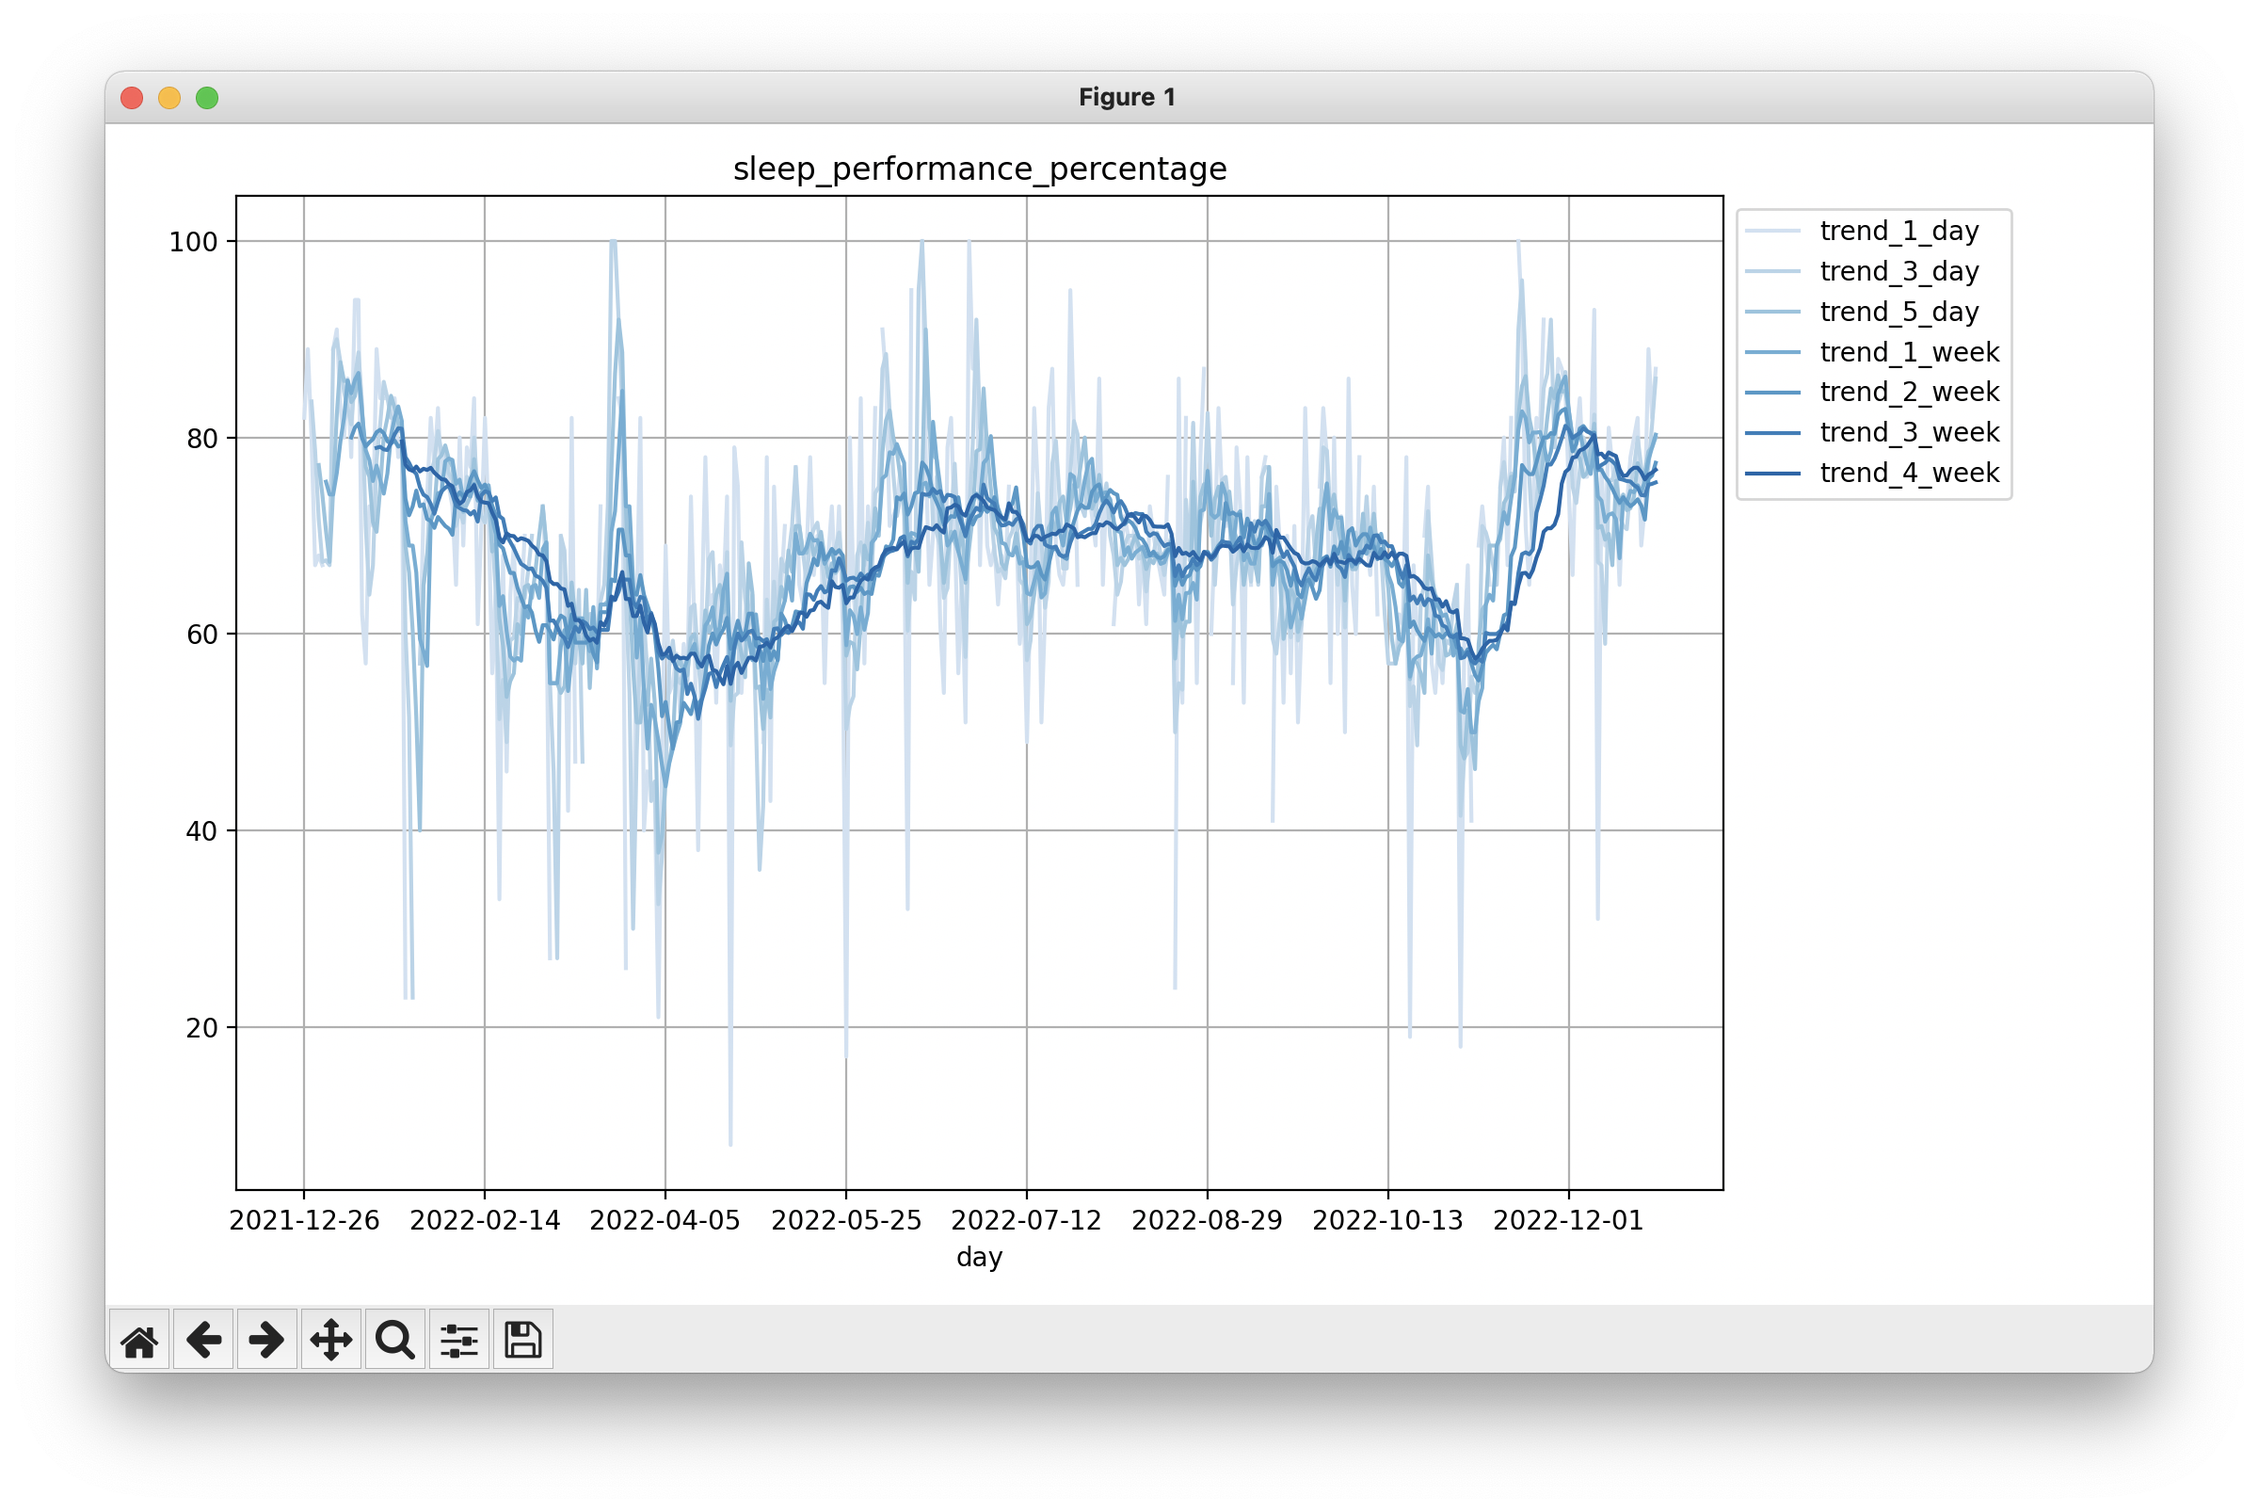
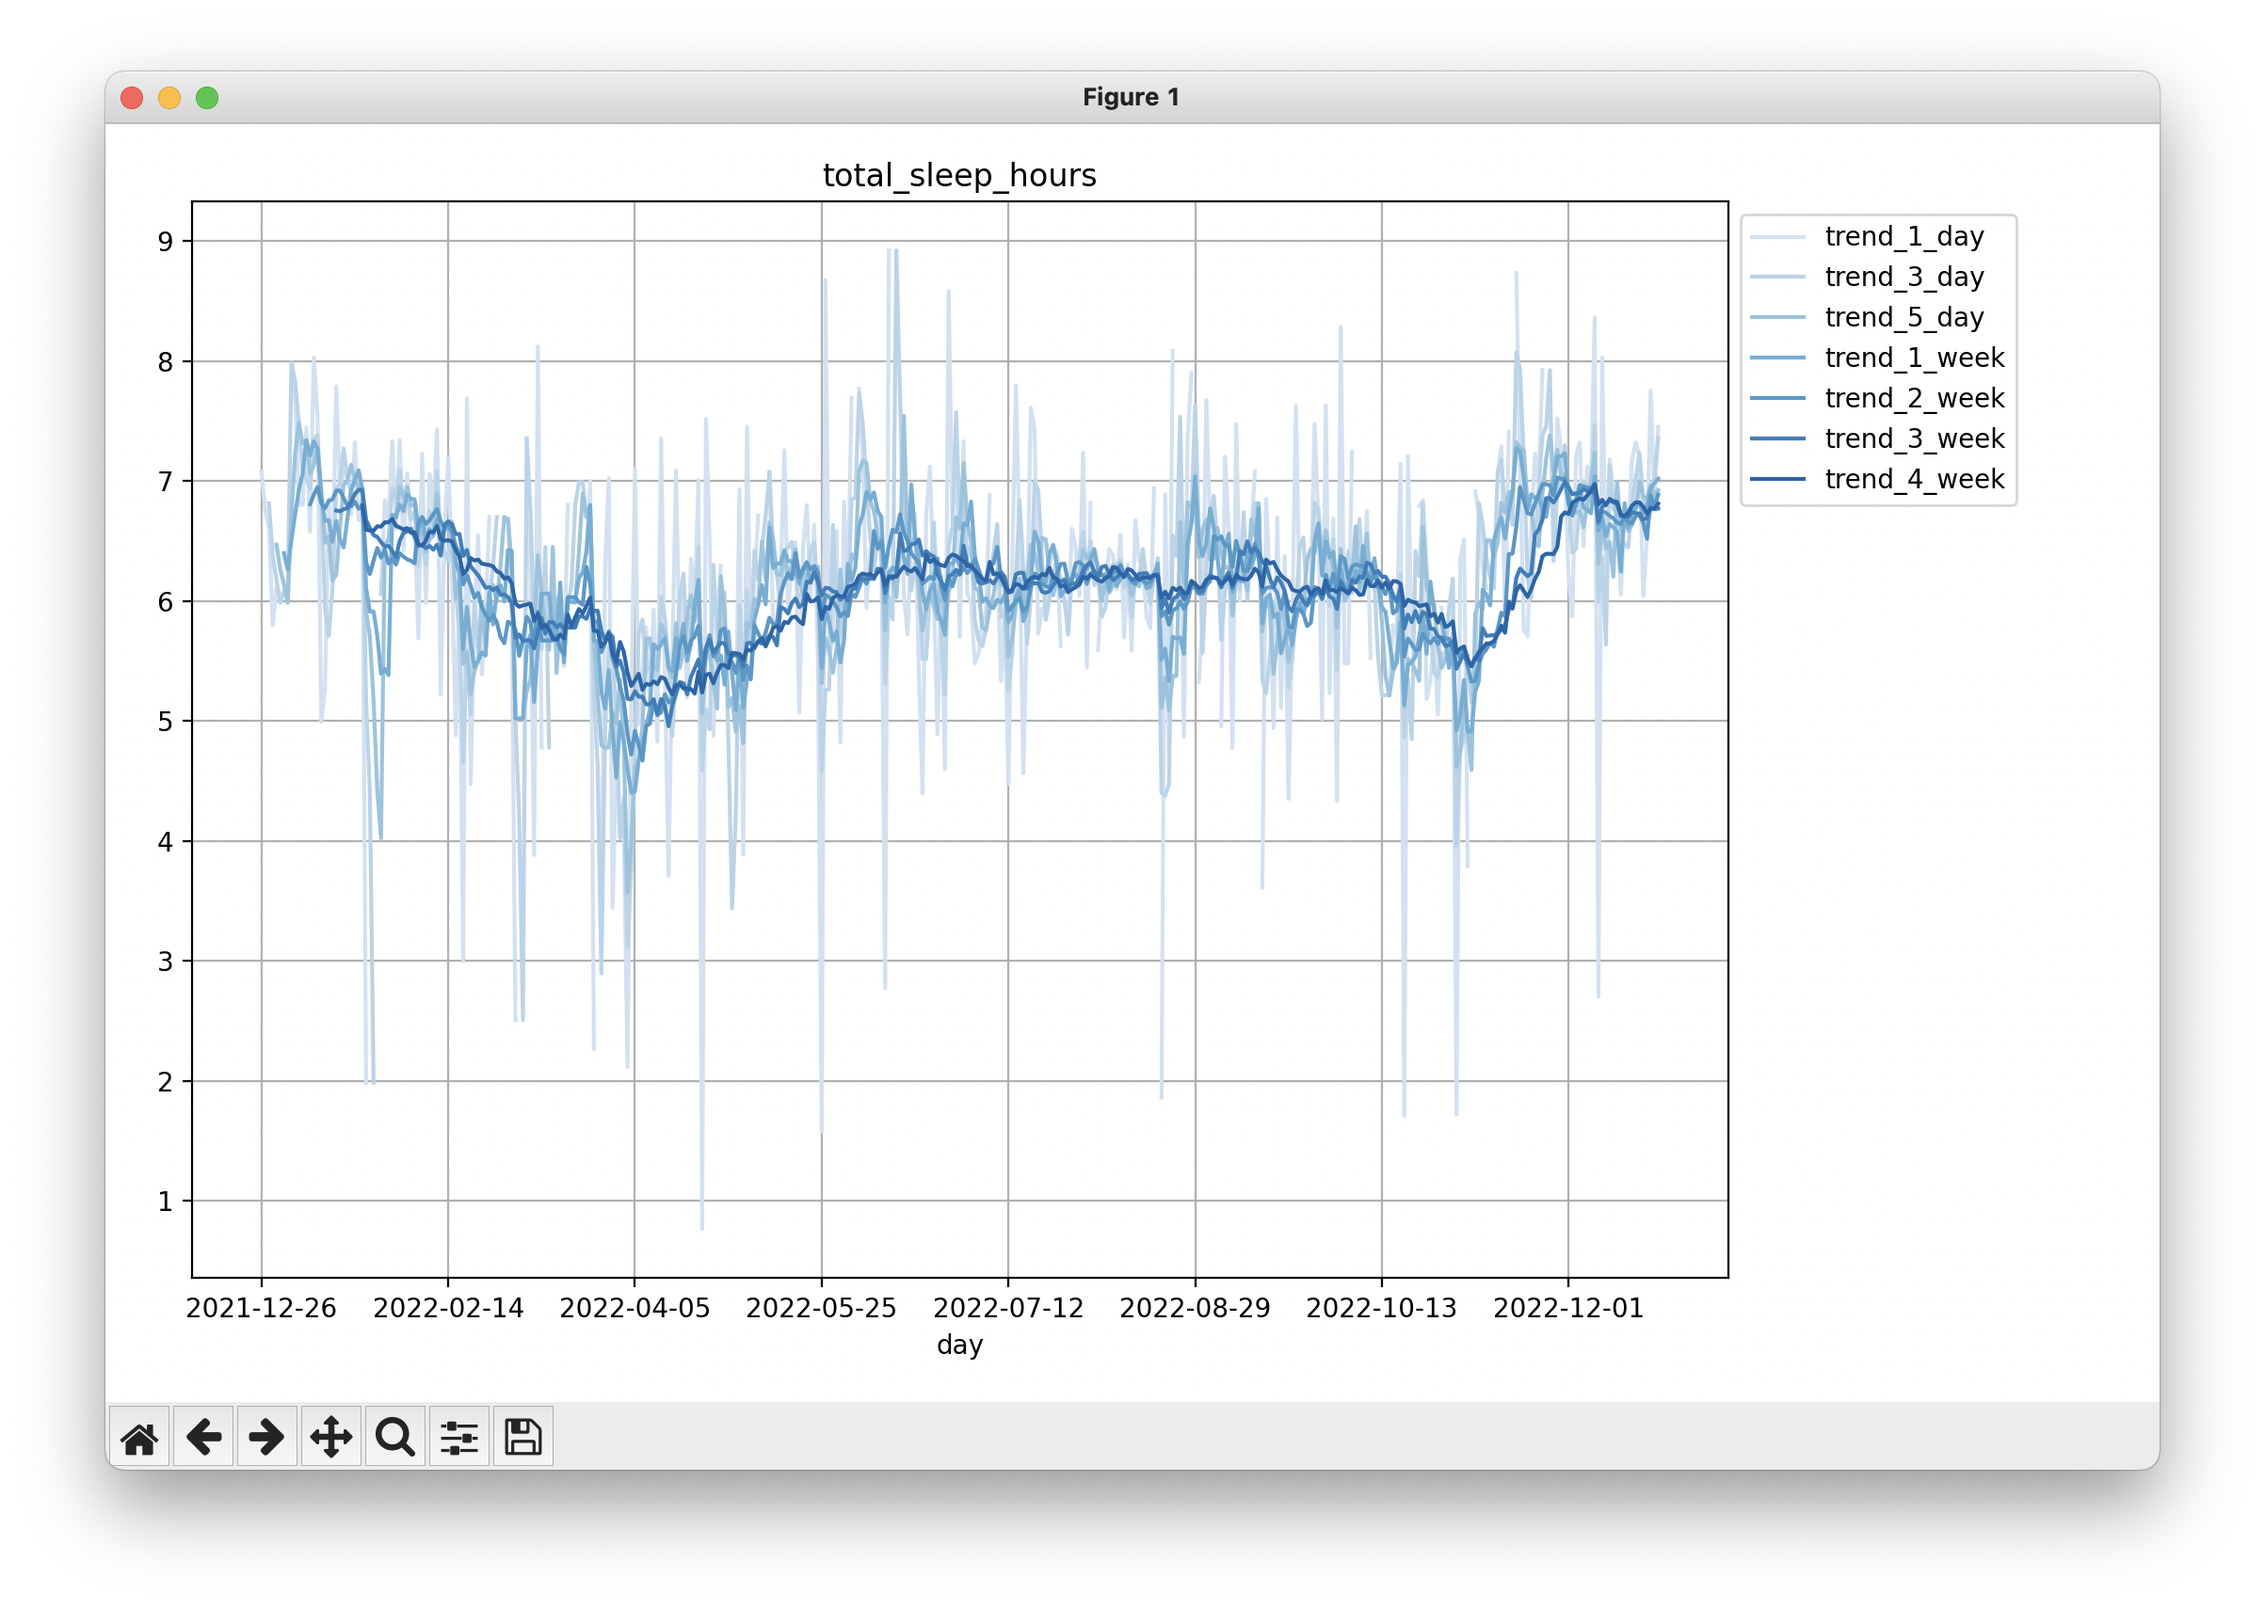
Readme updates

diff --git a/clients/whoop.py b/clients/whoop.py
@@ -113,18 +113,19 @@ class Whoop:
                 }
             if item['score']:
                 if 'stage_summary' in item['score']:
-                    record['total_in_bed_time_milli'] = item['score']['stage_summary']['total_in_bed_time_milli']
-                    record['total_awake_time_milli'] = item['score']['stage_summary']['total_awake_time_milli']
-                    record['total_no_data_time_milli'] = item['score']['stage_summary']['total_no_data_time_milli']
-                    record['total_light_sleep_time_milli'] = item['score']['stage_summary']['total_light_sleep_time_milli'] 
-                    record['total_slow_wave_sleep_time_milli'] = item['score']['stage_summary']['total_slow_wave_sleep_time_milli']
-                    record['total_rem_sleep_time_milli'] = item['score']['stage_summary']['total_rem_sleep_time_milli']
+                    record['total_in_bed_hours'] = item['score']['stage_summary']['total_in_bed_time_milli']/3600000.0
+                    record['total_awake_hours']  = item['score']['stage_summary']['total_awake_time_milli']/3600000.0
+                    record['total_sleep_hours'] = record['total_in_bed_hours'] - record['total_awake_hours']
+                    record['total_no_data_hours'] = item['score']['stage_summary']['total_no_data_time_milli']/3600000.0
+                    record['total_light_sleep_hours'] = item['score']['stage_summary']['total_light_sleep_time_milli']/3600000.0
+                    record['total_slow_wave_sleep_hours'] = item['score']['stage_summary']['total_slow_wave_sleep_time_milli']/3600000.0
+                    record['total_rem_sleep_hours'] = item['score']['stage_summary']['total_rem_sleep_time_milli']/3600000.0
                     record['sleep_cycle_count'] = item['score']['stage_summary']['disturbance_count']
                 if 'sleep_needed' in item['score']:
-                    record['need_from_baseline_milli'] = item['score']['sleep_needed']['baseline_milli']
-                    record['need_from_sleep_debt_milli'] = item['score']['sleep_needed']['need_from_sleep_debt_milli']
-                    record['need_from_recent_strain_milli'] = item['score']['sleep_needed']['need_from_recent_strain_milli']
-                    record['need_from_recent_nap_milli'] = item['score']['sleep_needed']['need_from_recent_nap_milli']
+                    record['need_from_baseline_hours'] = item['score']['sleep_needed']['baseline_milli']/3600000.0
+                    record['need_from_sleep_debt_hours'] = item['score']['sleep_needed']['need_from_sleep_debt_milli']/3600000.0
+                    record['need_from_recent_strain_hours'] = item['score']['sleep_needed']['need_from_recent_strain_milli']/3600000.0
+                    record['need_from_recent_nap_hours'] = item['score']['sleep_needed']['need_from_recent_nap_milli']/3600000.0
                 record['respiratory_rate'] = item['score']['respiratory_rate']
                 record['sleep_performance_percentage'] = item['score']['sleep_performance_percentage']
                 record['sleep_consistency_percentage'] = item['score']['sleep_consistency_percentage']

diff --git a/README.md b/README.md
@@ -35,8 +35,8 @@ Exertion metrics: [strain,calories]
 Heart Rate metrics: [average_heart_rate,max_heart_rate,resting_heart_rate]
 Cardiovascular metrics: [respiratory_rate,hrv_rmssd_milli,spo2_percentage]
 Temperature metrics: [skin_temp_celsius]
-Sleep metrics: [total_in_bed_time_milli,total_awake_time_milli,total_no_data_time_milli,total_light_sleep_time_milli, total_slow_wave_sleep_time_milli, total_rem_sleep_time_milli, sleep_cycle_count]
-Sleep Need metrics: [need_from_baseline_milli,need_from_sleep_debt_milli,need_from_recent_strain_milli,need_from_recent_nap_milli]
+Sleep metrics: [total_in_bed_hours,total_awake_hours,total_sleep_hours,total_no_data_hours,total_light_sleep_hours, total_slow_wave_sleep_hours, total_rem_sleep_hours, sleep_cycle_count]
+Sleep Need metrics: [need_from_baseline_hours,need_from_sleep_debt_hours,need_from_recent_strain_hours,need_from_recent_nap_hours]
 Sleep Quality metrics: [sleep_performance_percentage,sleep_consistency_percentage,sleep_efficiency_percentage]
 ```
 
